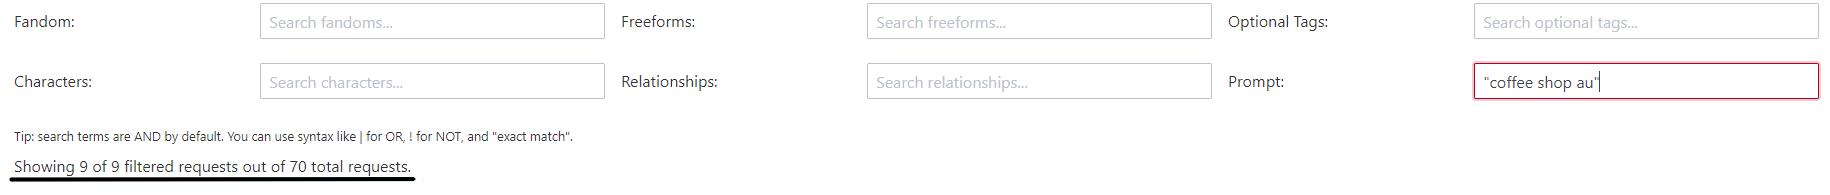
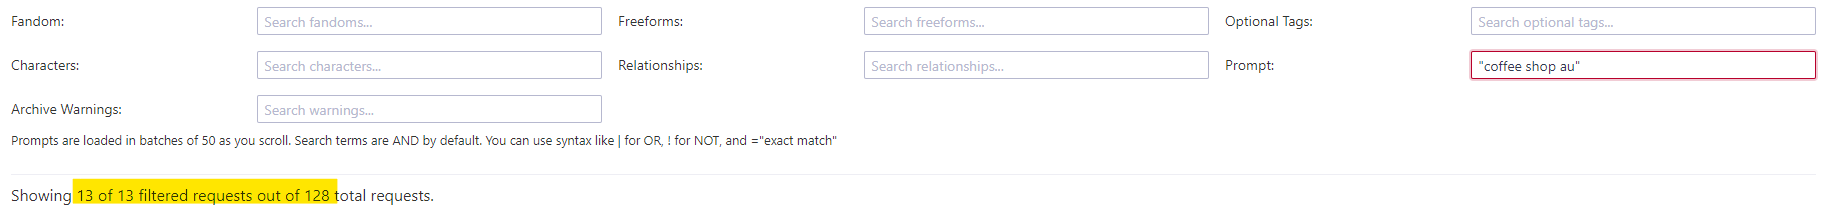
updated autoao3 tutorial for new UI.

diff --git a/website/docs/tutorials/autoao3.md b/website/docs/tutorials/autoao3.md
@@ -15,7 +15,7 @@ The app works by scraping the data already available on AO3. That's a fancy way 
 1. Start by rescraping the data. (*Optional.*)
     The mods are pretty dilligent about rescraping sign-ups (getting the new info) a couple of times a day, but if you want to rescrape to ensure you have the most up to date versions, you are more than welcome to do so. It won't hurt anything!
 
-    The app displays the last time the info was scraped in a dark gray bar in your local time. To rescrape, simply hit the red `Re-scrape` button and wait for 5-15 minutes for it to get all the new data. Then, refresh your page.
+    The app displays the last time the info was scraped in your local time to the right of the exchange info. To re-scrape, simply hit the red `Re-scrape` button on the far right side of the window and wait for 5-15 minutes for it to get all the new data. Then, refresh your page.
 
 <a href="#img1" class="preview">
 <img src={require('/img/tutorial/scrape.png').default} alt="Re-scrape Button"  class="thumbnail" />
@@ -73,9 +73,10 @@ The most useful tab for finding specific requests (and Treatless!) is the **All*
 <img src={require('/img/tutorial/whichfilters.png').default} />
 </a>
 
-- since we use `Dragon Age - All Media Types` to sign-up sorting by *Fandom* won't help. 
+- since we use `Dragon Age - All Media Types` to sign-up filtering by *Fandom* won't help. 
 - *Characters* only works if the Sign-Up sheet itself uses the Characters field; since our sign-up sheet uses the Relationships field this will not work for us. 
 - we do not allow *Optional Tags* during sign-up.
+- we do not use *Archive Warnings* during sign-up.
 
 </details>
 
